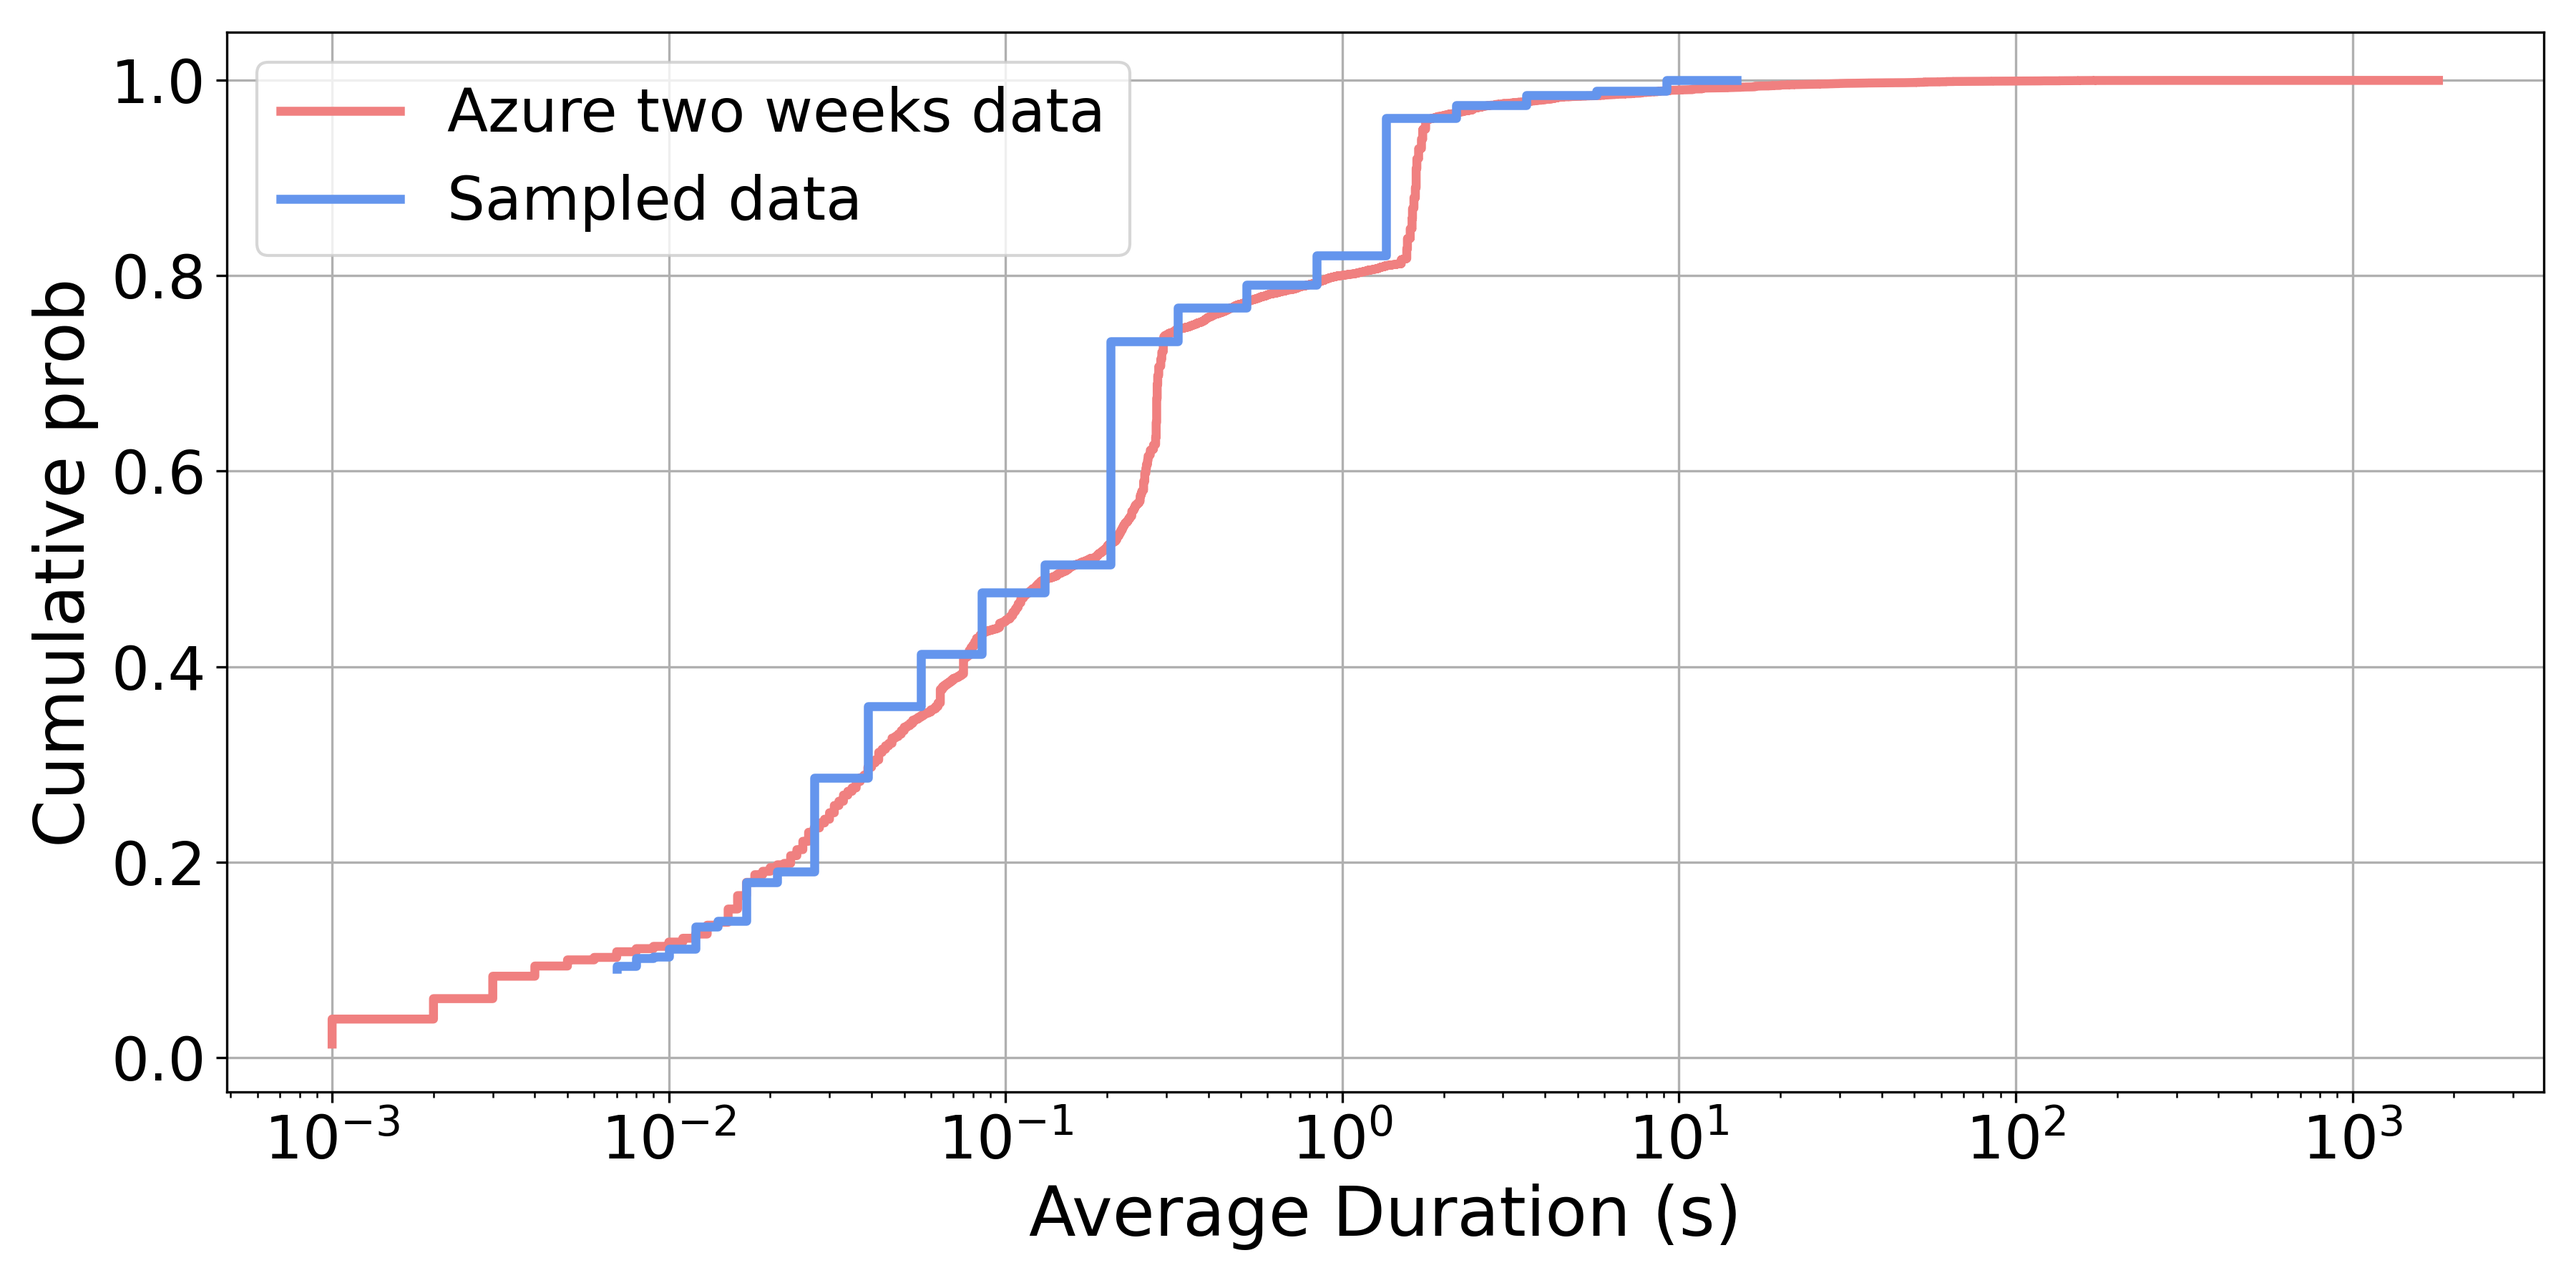
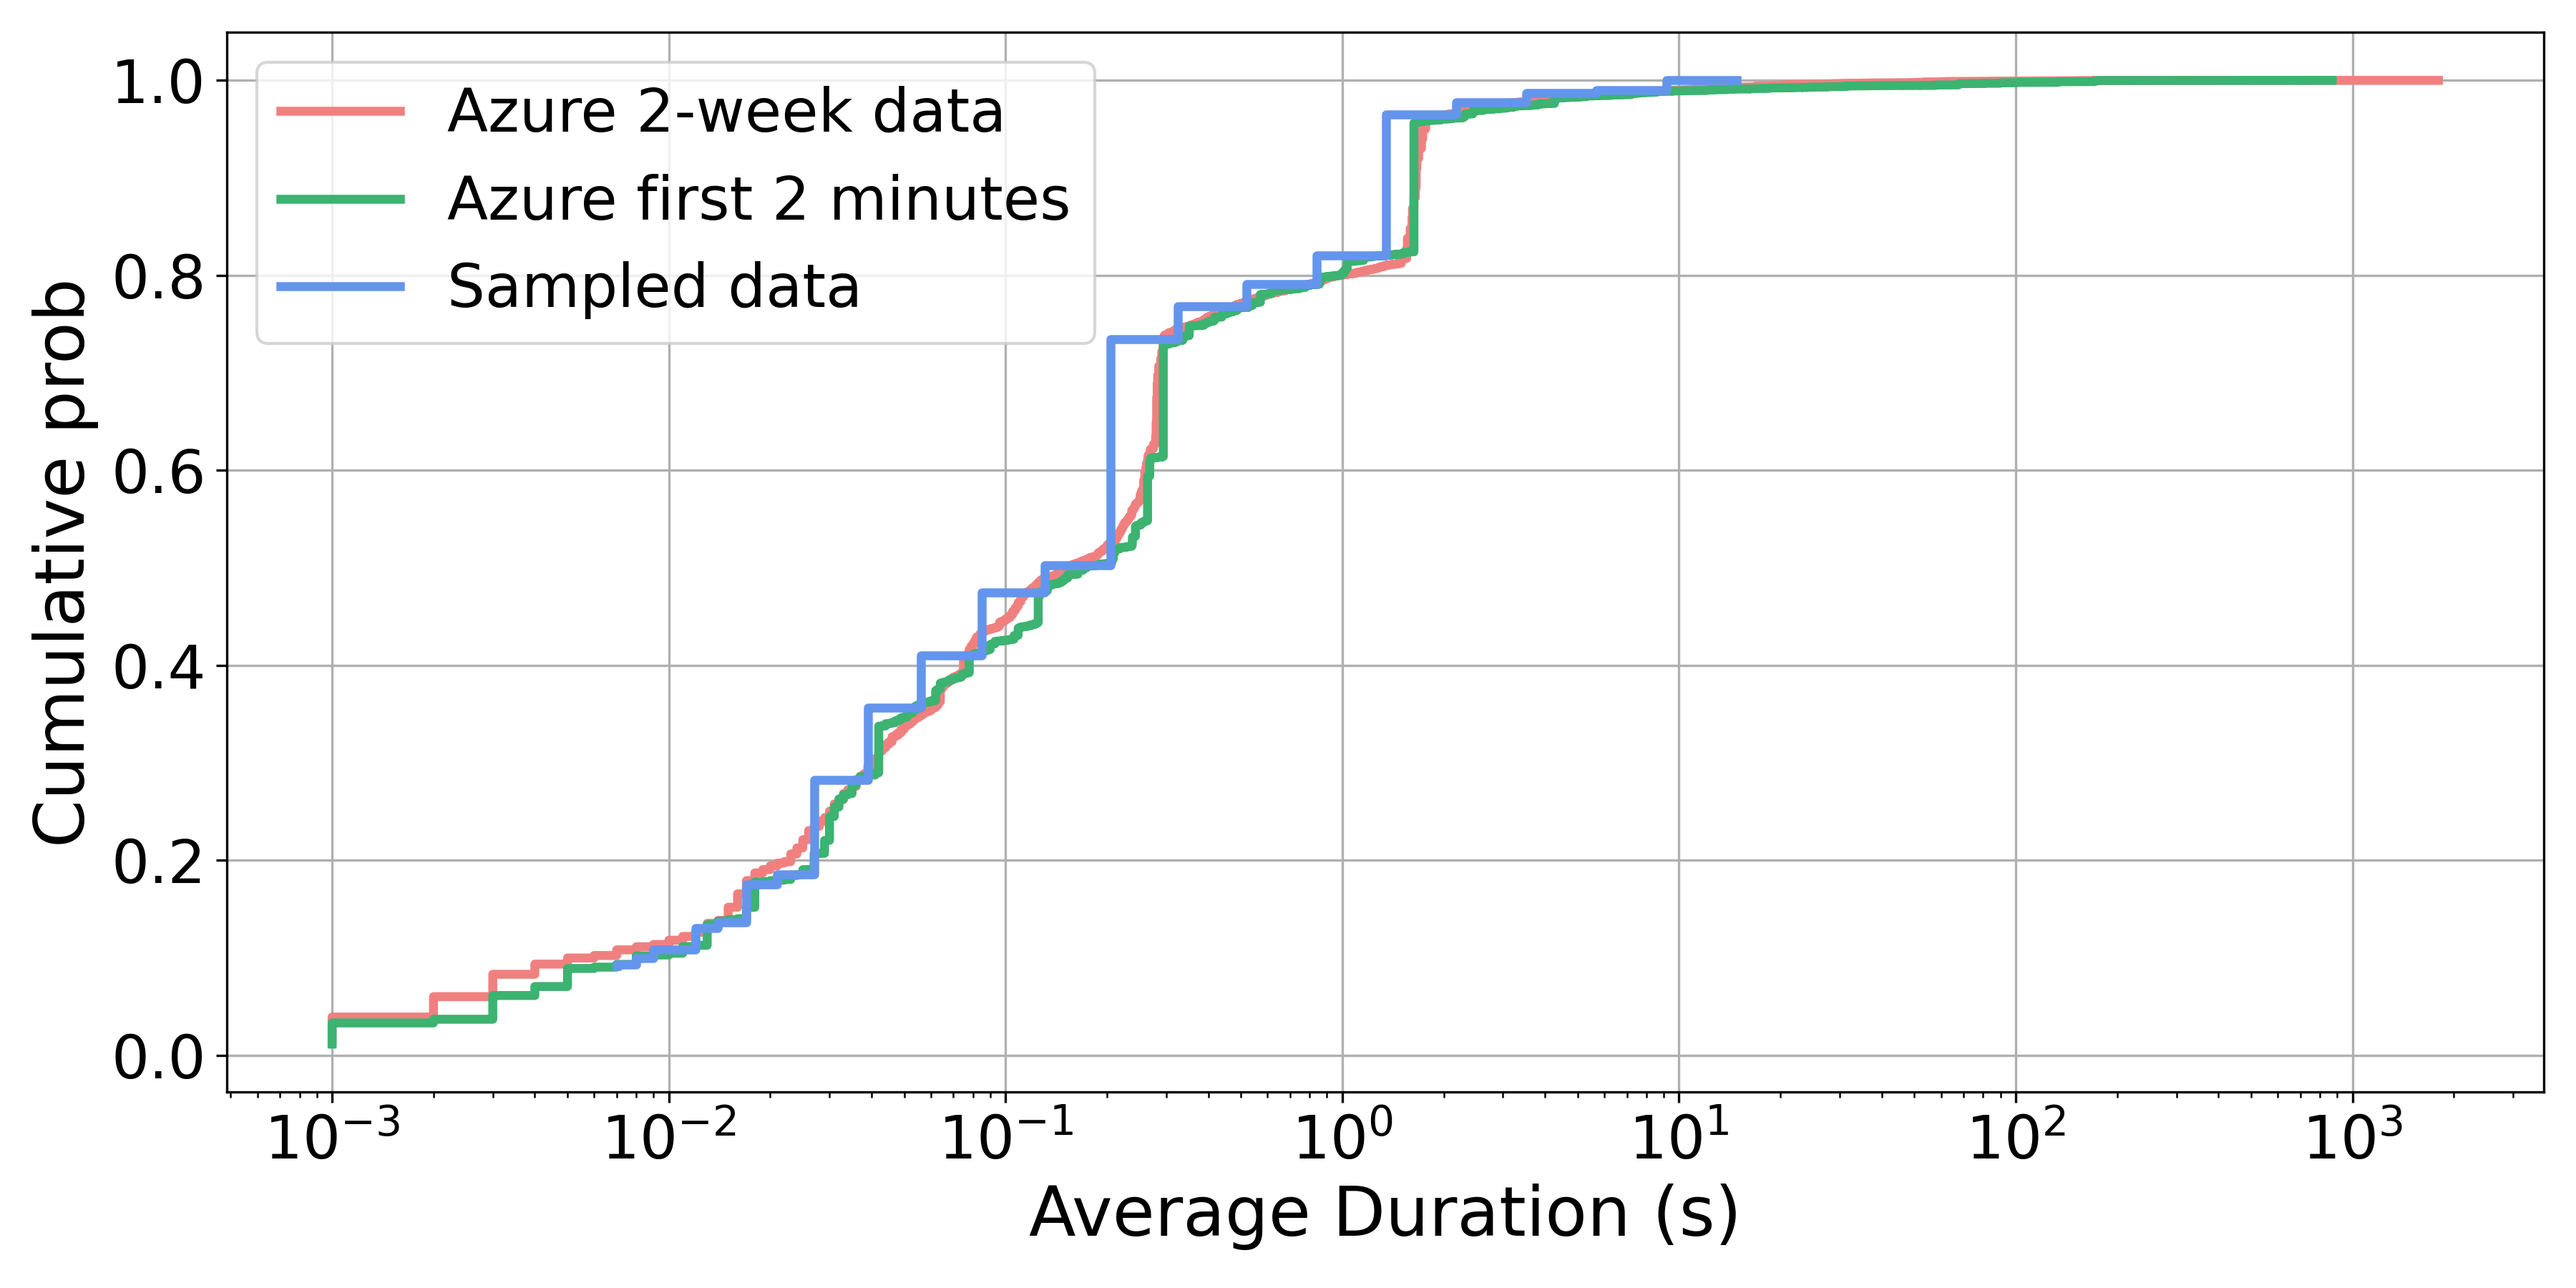
2minute azure compare

diff --git a/loadgen/dataset/compare_workload_to_azure.py b/loadgen/dataset/compare_workload_to_azure.py
@@ -6,60 +6,66 @@ import matplotlib.pyplot as plt
 
 dur_df_list = []
 days = [
-    "01",
-    "02",
-    "03",
-    "04",
-    "05",
-    "06",
-    "07",
-    "08",
-    "09",
-    "10",
-    "11",
-    "12",
-    "13",
-    "14",
+    "01", "02", "03", "04", "05", "06", "07",
+    "08", "09", "10", "11", "12", "13", "14",
 ]
 
 __file = os.path.dirname(os.path.realpath(__file__))
+
+# ---------------------------------------------------------
+# 1. Load Two-Week Azure CDF
+# ---------------------------------------------------------
 for i in days:
     dur_filename = f"{__file}/trace/function_durations_percentiles.anon.d{i}.csv"
-
     dur_df = pd.read_csv(dur_filename)
     dur_df_list.append(dur_df)
 
 duration_df = pd.concat(dur_df_list, axis=0, ignore_index=True).iloc[:, [3, 4]]
-
 duration_df = duration_df[duration_df["Average"] > 0]
-
 duration_df = duration_df.groupby("Average").sum().reset_index()
 
-# prepare the two-week CDF (used in the combined plot)
 x_2weeks = list(duration_df["Average"] / 1000)
 y_2weeks = list(duration_df["Count"])
 p_2weeks = y_2weeks / np.sum(y_2weeks)
 cdf_2weeks = np.cumsum(p_2weeks)
 
 
-# These match the bucket definitions in gen_workload.py
+# ---------------------------------------------------------
+# 2. Load First 2 Minutes Azure CDF (Day 01)
+# ---------------------------------------------------------
+durations_day01 = f"{__file}/trace/function_durations_percentiles.anon.d01.csv"
+invoke_day01 = f"{__file}/trace/invocations_per_function_md.anon.d01.csv"
+
+duration_01 = pd.read_csv(durations_day01).iloc[:, [2, 3]]
+invoke_01 = pd.read_csv(invoke_day01).drop(columns=["HashOwner", "HashApp", "Trigger"])
+
+df_day1 = pd.merge(duration_01, invoke_01, how="inner", on=["HashFunction"])
+df_day1 = df_day1[df_day1["Average"] > 0]
+
+# Vectorized processing for the first 2 minutes (columns 1 and 2 after Average)
+df_2min = df_day1.iloc[:, [1, 2, 3]].copy()
+df_2min.columns = ['Average', 'Min1', 'Min2']
+df_2min_grouped = df_2min.groupby("Average").sum()
+df_2min_grouped["Count"] = df_2min_grouped["Min1"] + df_2min_grouped["Min2"]
+df_2min_grouped = df_2min_grouped[df_2min_grouped["Count"] > 0].reset_index()
+
+x_2min = list(df_2min_grouped["Average"] / 1000)
+y_2min = list(df_2min_grouped["Count"])
+p_2min = y_2min / np.sum(y_2min)
+cdf_2min = np.cumsum(p_2min)
+
+
+# ---------------------------------------------------------
+# 3. Load Generated Workload CDF
+# ---------------------------------------------------------
 dur_list = [7, 8, 9, 10, 12, 14, 17, 21, 27, 39, 56, 85, 131, 205, 325, 520, 838, 1347, 2175, 3512, 5673, 9172, 14835]
 fib = [24, 25, 26, 27, 28, 29, 30, 31, 32, 33, 34, 35, 36, 37, 38, 39, 40, 41, 42, 43, 44, 45, 46]
 arg_to_duration = dict(zip(fib, dur_list))
 
-# Load generated workload and build its CDF
 workload_file = f"{__file}/workload_dur.txt"
 if not os.path.exists(workload_file):
     raise FileNotFoundError(f"No workload file found at: {workload_file}")
-fig, ax1 = plt.subplots(figsize=(12, 6))
-ax1.step(
-    x_2weeks,
-    cdf_2weeks,
-    color="lightcoral",
-    where="pre",
-    linewidth=3,
-    label="Azure two weeks data",
-)
+
 workload_df = pd.read_csv(workload_file, sep=r"\s+", header=None, names=["iat", "arg"])
 workload_counts = workload_df["arg"].value_counts().sort_index()
 
@@ -69,20 +75,28 @@ for arg, count in workload_counts.items():
         workload_duration_counts.append((arg_to_duration[arg], count))
 
 workload_duration_counts.sort(key=lambda x: x[0])
-x = [duration for duration, _ in workload_duration_counts]
-y = [count for _, count in workload_duration_counts]
-p = y / np.sum(y)
-cdf = np.cumsum(p)
-x_divided = [value / 1000 for value in x]
+x_wl = [duration for duration, _ in workload_duration_counts]
+y_wl = [count for _, count in workload_duration_counts]
+p_wl = y_wl / np.sum(y_wl)
+cdf_wl = np.cumsum(p_wl)
+x_divided_wl = [value / 1000 for value in x_wl]
+
+
+# ---------------------------------------------------------
+# 4. Plot Combined CDFs
+# ---------------------------------------------------------
+fig, ax1 = plt.subplots(figsize=(12, 6))
 
 ax1.step(
-    x_divided,
-    cdf,
-    color="cornflowerblue",
-    where="pre",
-    linewidth=3,
-    label="Sampled data",
+    x_2weeks, cdf_2weeks, color="lightcoral", where="pre", linewidth=3, label="Azure 2-week data"
 )
+ax1.step(
+    x_2min, cdf_2min, color="mediumseagreen", where="pre", linewidth=3, label="Azure first 2 minutes"
+)
+ax1.step(
+    x_divided_wl, cdf_wl, color="cornflowerblue", where="pre", linewidth=3, label="Sampled data"
+)
+
 plt.xticks(size=20)
 plt.yticks(size=20)
 plt.grid()
@@ -91,4 +105,4 @@ ax1.set_xlabel("Average Duration (s)", size=23)
 ax1.set_ylabel("Cumulative prob", size=23)
 plt.legend(fontsize=20)
 plt.tight_layout()
-plt.savefig("azure_sample_comparison.png", dpi=300)
+plt.savefig(f"{__file}/azure_sample_comparison.png", dpi=300)
